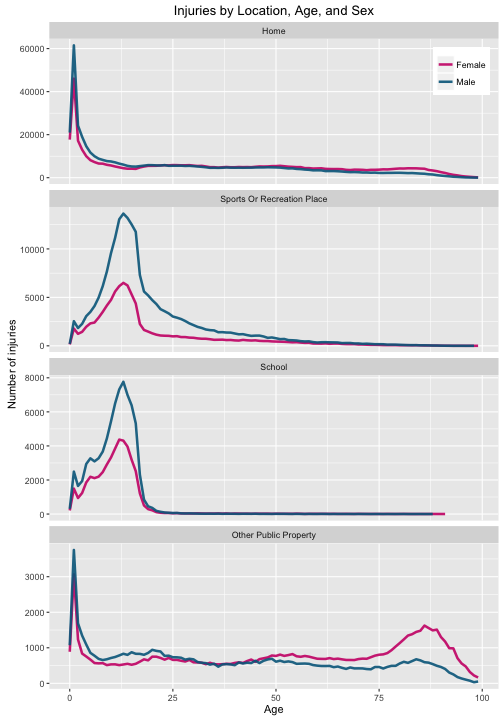
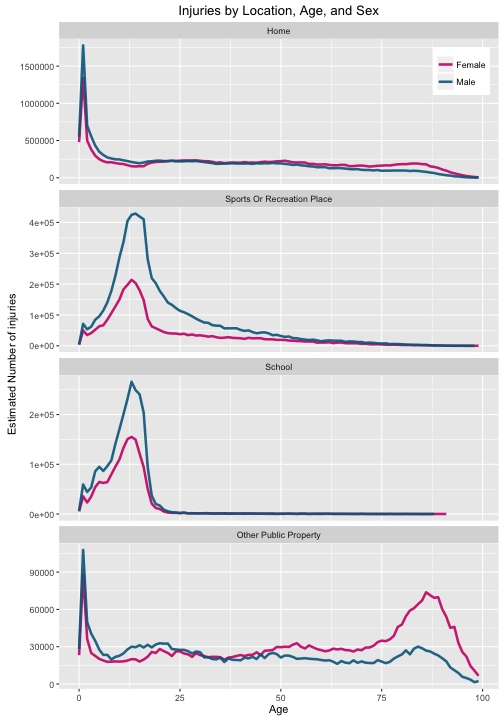
Use weights for summing NEISS

diff --git a/_posts/2016-02-19-Your-Floor.md b/_posts/2016-02-19-Your-Floor.md
@@ -86,7 +86,7 @@ library(dplyr)
 injuries <- left_join(injuries, products, by = c("prod1" = "code")) %>% 
         rename(product = title)
 injuries$product <- as.factor(injuries$product)
-injuries %>% group_by(product) %>% summarise(total = n()) %>% 
+injuries %>% group_by(product) %>% summarise(total = sum(weight)) %>% 
         top_n(10, total) %>% arrange(desc(total))
 {% endhighlight %}
 
@@ -95,18 +95,18 @@ injuries %>% group_by(product) %>% summarise(total = n()) %>%
 {% highlight text %}
 ## Source: local data frame [10 x 2]
 ## 
-##                                     product  total
-##                                      (fctr)  (int)
-## 1                           stairs or steps 195807
-## 2              floors or flooring materials 157511
-## 3      beds or bedframes, other or not spec 100812
-## 4  basketball (activity, apparel or equip.)  95524
-## 5   bicycles and accessories (excl mountain  89420
-## 6    football (activity, apparel or equip.)  81468
-## 7             doors, other or not specified  53535
-## 8            chairs, other or not specified  53349
-## 9  ceilings and walls (part of completed st  50814
-## 10         tables, not elsewhere classified  49991
+##                                     product   total
+##                                      (fctr)   (dbl)
+## 1                           stairs or steps 7245304
+## 2              floors or flooring materials 6177421
+## 3      beds or bedframes, other or not spec 3551331
+## 4  basketball (activity, apparel or equip.) 3150653
+## 5   bicycles and accessories (excl mountain 3139063
+## 6    football (activity, apparel or equip.) 2670743
+## 7          knives, not elsewhere classified 2015212
+## 8            chairs, other or not specified 1875416
+## 9             doors, other or not specified 1781299
+## 10 ceilings and walls (part of completed st 1777905
 {% endhighlight %}
 
 If you live in a house without stairs, it looks like your floor is the most dangerous thing in your house. (Is it weird that floors and stairs are "consumer products" in this data set?) These results, as we would expect, agree with the more detailed plots at [Flowing Data](http://flowingdata.com/2016/02/09/why-people-visit-the-emergency-room/).
@@ -119,13 +119,13 @@ Let's look at where these injuries occur, first for the dataset as a whole.
 {% highlight r %}
 library(ggplot2)
 injuries$location <- as.factor(injuries$location)
-whereinjury <- injuries %>% group_by(location) %>% summarise(total = n())
+whereinjury <- injuries %>% group_by(location) %>% summarise(total = sum(weight))
 ggplot(data = whereinjury, 
        aes(x = location, y = total)) +
         geom_bar(stat = "identity", fill = "aquamarine4", alpha = 0.8) + 
         theme(legend.position="none", axis.title.x = element_blank(),
               axis.text.x= element_text(angle=45, hjust = 1)) +
-        ylab("Number of injuries") +
+        ylab("Estimated number of injuries") +
         ggtitle("Location of Injuries")
 {% endhighlight %}
 
@@ -136,7 +136,7 @@ Is this different for males and females? (I have left out the injuries where no 
 
 {% highlight r %}
 injuries$sex <- as.factor(injuries$sex)
-whereinjury <- injuries %>% group_by(location, sex) %>% summarise(total = n()) %>% 
+whereinjury <- injuries %>% group_by(location, sex) %>% summarise(total = sum(weight)) %>% 
         arrange(desc(total))
 ggplot(data = whereinjury[whereinjury$sex != "None listed",], 
        aes(x = location, y = total, fill = sex)) +
@@ -144,7 +144,7 @@ ggplot(data = whereinjury[whereinjury$sex != "None listed",],
         scale_fill_manual(values = c("deeppink3", "deepskyblue4")) + 
         theme(axis.title.x = element_blank(), legend.title=element_blank(),
               axis.text.x= element_text(angle=45, hjust = 1)) +
-        ylab("Number of injuries") +
+        ylab("Estimated number of injuries") +
         ggtitle("Location of Injuries")
 {% endhighlight %}
 
@@ -162,13 +162,13 @@ Let's start by looking at the number of injuries by age and by sex.
 {% highlight r %}
 sexageinjury <- injuries %>% 
         group_by(sex, age = as.numeric(cut(age, breaks = (seq(0,100, by = 1))))-1) %>%
-        summarise(total = n())
+        summarise(total = sum(weight))
 ggplot(data = sexageinjury[sexageinjury$sex != "None listed",], 
        aes(x = age, y = total, color = sex)) +
         geom_line(size = 1.5, alpha = 0.9) +
         scale_color_manual(values = c("deeppink3", "deepskyblue4")) + 
         theme(legend.title=element_blank(), legend.justification=c(1,1), legend.position=c(1,1)) +
-        ylab("Number of injuries") + xlab("Age") + 
+        ylab("Estimated number of injuries") + xlab("Age") + 
         ggtitle("Total Injuries by Age and Sex")
 {% endhighlight %}
 
@@ -277,7 +277,7 @@ Now let's divide the injuries by the population in each age/sex bin to get a rat
 library(reshape2)
 totalinjuries <- totalinjuries %>% mutate(rate = injuries/population*1e5) %>% 
         melt(id = c("age", "sex"))
-levels(totalinjuries$variable) <- c("Population", "Injuries", "Injury Rate per 100,000 Population")
+levels(totalinjuries$variable) <- c("Population", "Estimated Injuries", "Injury Rate per 100,000 Population")
 ggplot(data = totalinjuries, 
        aes(x = age, y = value, color = sex)) +
         facet_wrap(~variable, ncol = 1, scales = "free_y") + 
@@ -305,13 +305,13 @@ This toilet-related one, naturally, caught everyone's eye. Let's reproduce that 
 {% highlight r %}
 toiletinjury <- injuries[injuries$prod1 == 649,] %>% 
         group_by(sex, age = as.numeric(cut(age, breaks = (seq(0,100, by = 1))))-1) %>%
-        summarise(total = n())
+        summarise(total = sum(weight))
 totalinjuries <- left_join(medianpop, toiletinjury, by = c("age" = "age"))
 totalinjuries <- totalinjuries %>% filter(sex.x == tolower(sex.y)) %>% 
         select(age, sex = sex.x, population = n, injuries = total) %>%
         mutate(rate = injuries/population*1e5) %>% 
         melt(id = c("age", "sex"), measure = c("injuries", "rate"))
-levels(totalinjuries$variable) <- c("Number of Injuries", "Injury Rate per 100,000 Population")
+levels(totalinjuries$variable) <- c("Estimated Number of Injuries", "Injury Rate per 100,000 Population")
 ggplot(data = totalinjuries, 
        aes(x = age, y = value, color = sex)) +
         facet_wrap(~variable, ncol = 1, scales = "free_y") + 
@@ -324,7 +324,7 @@ ggplot(data = totalinjuries,
 
 ![center](/figs/2016-02-19-Your-Floor/unnamed-chunk-17-1.png)
 
-The reason my plot doesn't extend to as high ages as Hadley's is that the population data doesn't extend to as high ages as the NEISS data, and we must have binned slightly differently because of the minor difference visible at the low ages. More of substance, dividing by the population in each age/sex bin shows that the toilet-related injury rate increases significantly with age. The difference between older women and men is not due to there being more women in the older population; older women are more likely to suffer toilet-related injuries than older men. SAD. And also somewhat sensible, I suppose, if I stop to think about it. Everyone do some squats.
+The reason my plot doesn't extend to as high ages as Hadley's is that the population data doesn't extend to as high ages as the NEISS data. Also, the y-axes are different because Hadley must have been just using the number of cases (i.e. rows) in the data set at that point, but it actually contains a weight (`weight`) for each case that can be used to get a national estimate. (The NEISS is a sample of many hospitals, but not every single hospital in the United States; the weights are assigned so that we can use these data to get a national estimate.) More of substance, dividing by the population in each age/sex bin shows that the toilet-related injury rate increases significantly with age. The difference between older women and men is not due to there being more women in the older population; older women are more likely to suffer toilet-related injuries than older men. SAD. And also somewhat sensible, I suppose, if I stop to think about it. Everyone do some squats.
 
 ## TRIED TO SKI JUMP, LEGS WENT APART IN AIR
 
@@ -334,13 +334,13 @@ Let's do one more. I live in a ski-centric city, so let's find all the skiing-re
 {% highlight r %}
 skiinjury <- injuries[injuries$prod1 == 3283,] %>% 
         group_by(sex, age = as.numeric(cut(age, breaks = (seq(0,100, by = 1))))-1) %>%
-        summarise(total = n())
+        summarise(total = sum(weight))
 totalinjuries <- left_join(medianpop, skiinjury, by = c("age" = "age"))
 totalinjuries <- totalinjuries %>% filter(sex.x == tolower(sex.y)) %>% 
         select(age, sex = sex.x, population = n, injuries = total) %>%
         mutate(rate = injuries/population*1e5) %>% 
         melt(id = c("age", "sex"), measure = c("injuries", "rate"))
-levels(totalinjuries$variable) <- c("Number of Injuries", "Injury Rate per 100,000 Population")
+levels(totalinjuries$variable) <- c("Estimated Number of Injuries", "Injury Rate per 100,000 Population")
 ggplot(data = totalinjuries, 
        aes(x = age, y = value, color = sex)) +
         facet_wrap(~variable, ncol = 1, scales = "free_y") + 
@@ -368,7 +368,7 @@ Now that we have a handle on this business with the population at different sex/
 whereinjury <- injuries %>% group_by(location, sex, 
                                      age = as.numeric(cut(age, 
                                                           breaks = (seq(0,100, by = 1))))-1) %>%
-        summarise(total = n())
+        summarise(total = sum(weight))
 whereinjury$location = factor(whereinjury$location,levels(whereinjury$location)[c(2,7,6,5,1,3,4,8,9)])
 plotlocation <- c("Home", "Other Public Property", "School", 
                   "Sports Or Recreation Place")
@@ -379,7 +379,7 @@ ggplot(data = whereinjury[whereinjury$sex != "None listed" &
         geom_line(size = 1.2, alpha = 0.9) +
         scale_color_manual(values = c("deeppink3", "deepskyblue4")) + 
         theme(legend.title=element_blank(), legend.justification=c(1,1), legend.position=c(1,1)) +
-        ylab("Number of injuries") + xlab("Age") + 
+        ylab("Estimated Number of injuries") + xlab("Age") + 
         ggtitle("Injuries by Location, Age, and Sex")
 {% endhighlight %}
 
